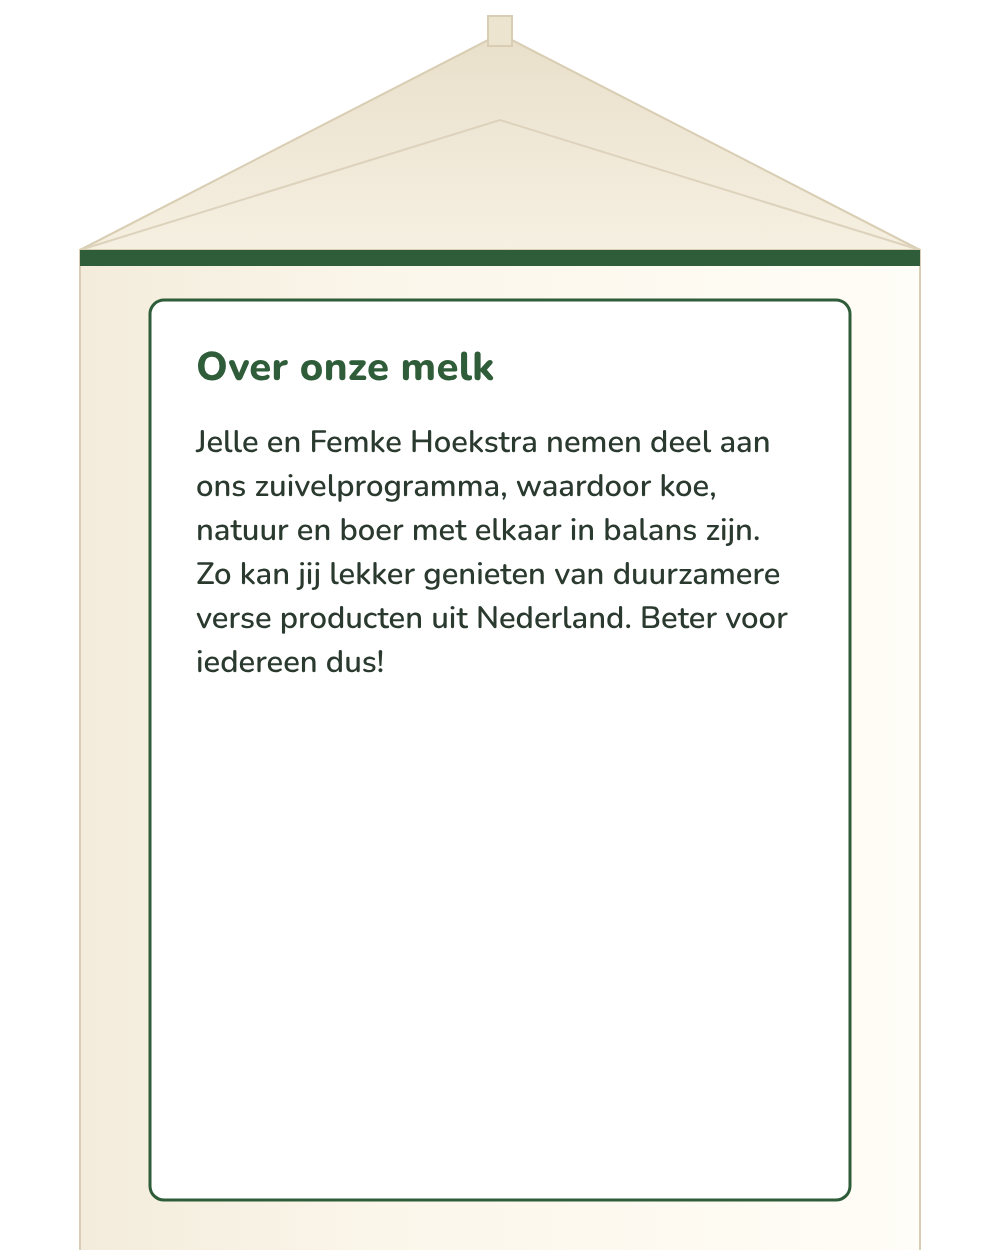
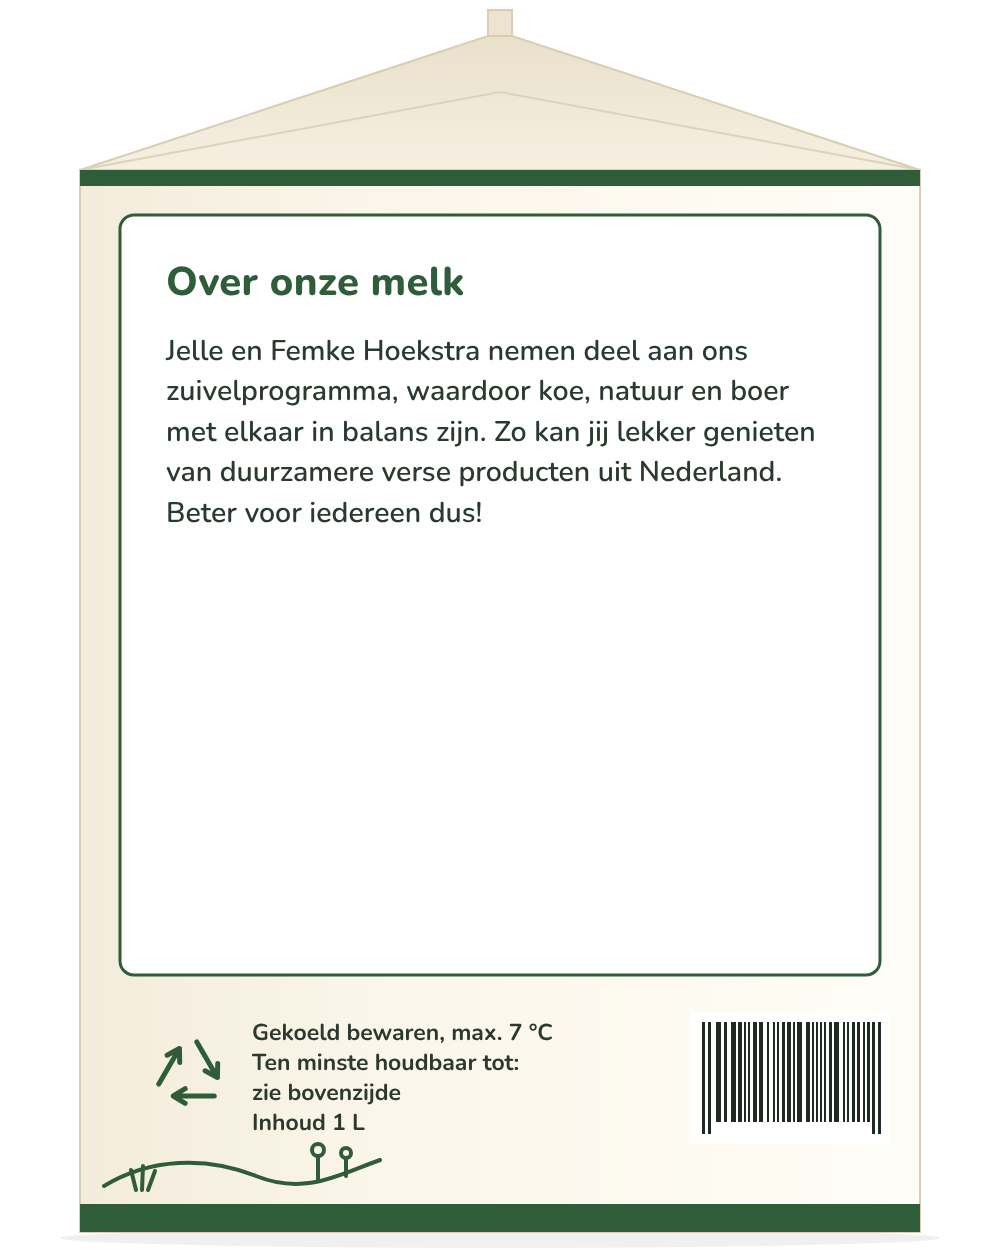
Carton side with standard print; claim box follows text length
Claude-Session: https://claude.ai/code/session_0165mzimojSkWb7uQjiVrJAc

Changed region(s): [[0.062, 0.0312, 0.93, 1.0], [0.527, 0.8112, 0.558, 0.8424], [0.496, 0.0, 0.527, 0.0312]]

diff --git a/app.js b/app.js
@@ -37,21 +37,6 @@
     $("sideHint").classList.toggle("is-side", view === "side");
   }
 
-  // The claim box gets the height of the longest claim at the current width,
-  // so the layout below it is identical in all four versions.
-  function equaliseClaimBox() {
-    var box = $("claimBox"), m = $("measure");
-    box.style.minHeight = "";
-    m.style.width = box.getBoundingClientRect().width + "px";
-    var max = 0;
-    for (var i = 0; i < VERSIONS.length; i++) {
-      m.innerHTML = '<p></p>';
-      m.firstChild.textContent = CFG.claims[VERSIONS[i]];
-      max = Math.max(max, m.getBoundingClientRect().height);
-    }
-    box.style.minHeight = Math.ceil(max) + "px";
-  }
-
   function showShop(version) {
     $("start").hidden = true;
     $("shop").hidden = false;
@@ -71,9 +56,6 @@
 
     setupSurvey(version);
 
-    var measure = function () { equaliseClaimBox(); };
-    if (document.fonts && document.fonts.ready) document.fonts.ready.then(measure); else measure();
-    var t; window.addEventListener("resize", function () { clearTimeout(t); t = setTimeout(measure, 120); });
     window.scrollTo(0, 0);
   }
 

diff --git a/styles.css b/styles.css
@@ -90,7 +90,6 @@ img{display:block;max-width:100%;height:auto}
 .claim{position:relative;background:var(--green-soft);border:1.5px solid #B9D3BC;border-radius:12px;padding:14px 16px 14px 48px;margin:0 0 18px}
 .claim .leaf{position:absolute;left:16px;top:15px}
 .claim p{margin:0;color:#24352A;font-size:16px;line-height:1.55}
-.claim-measure{position:absolute;left:-9999px;top:0;visibility:hidden}
 .facts{margin:0;color:#333}
 .facts div{display:flex;gap:6px}
 .facts dt{font-weight:700}

diff --git a/index.html b/index.html
@@ -179,8 +179,6 @@
   </footer>
 </div>
 
-<!-- hidden helper to give the claim box the same height in every version -->
-<div id="measure" class="claim claim-measure" aria-hidden="true"></div>
 
 <script src="config.js"></script>
 <script src="app.js"></script>
